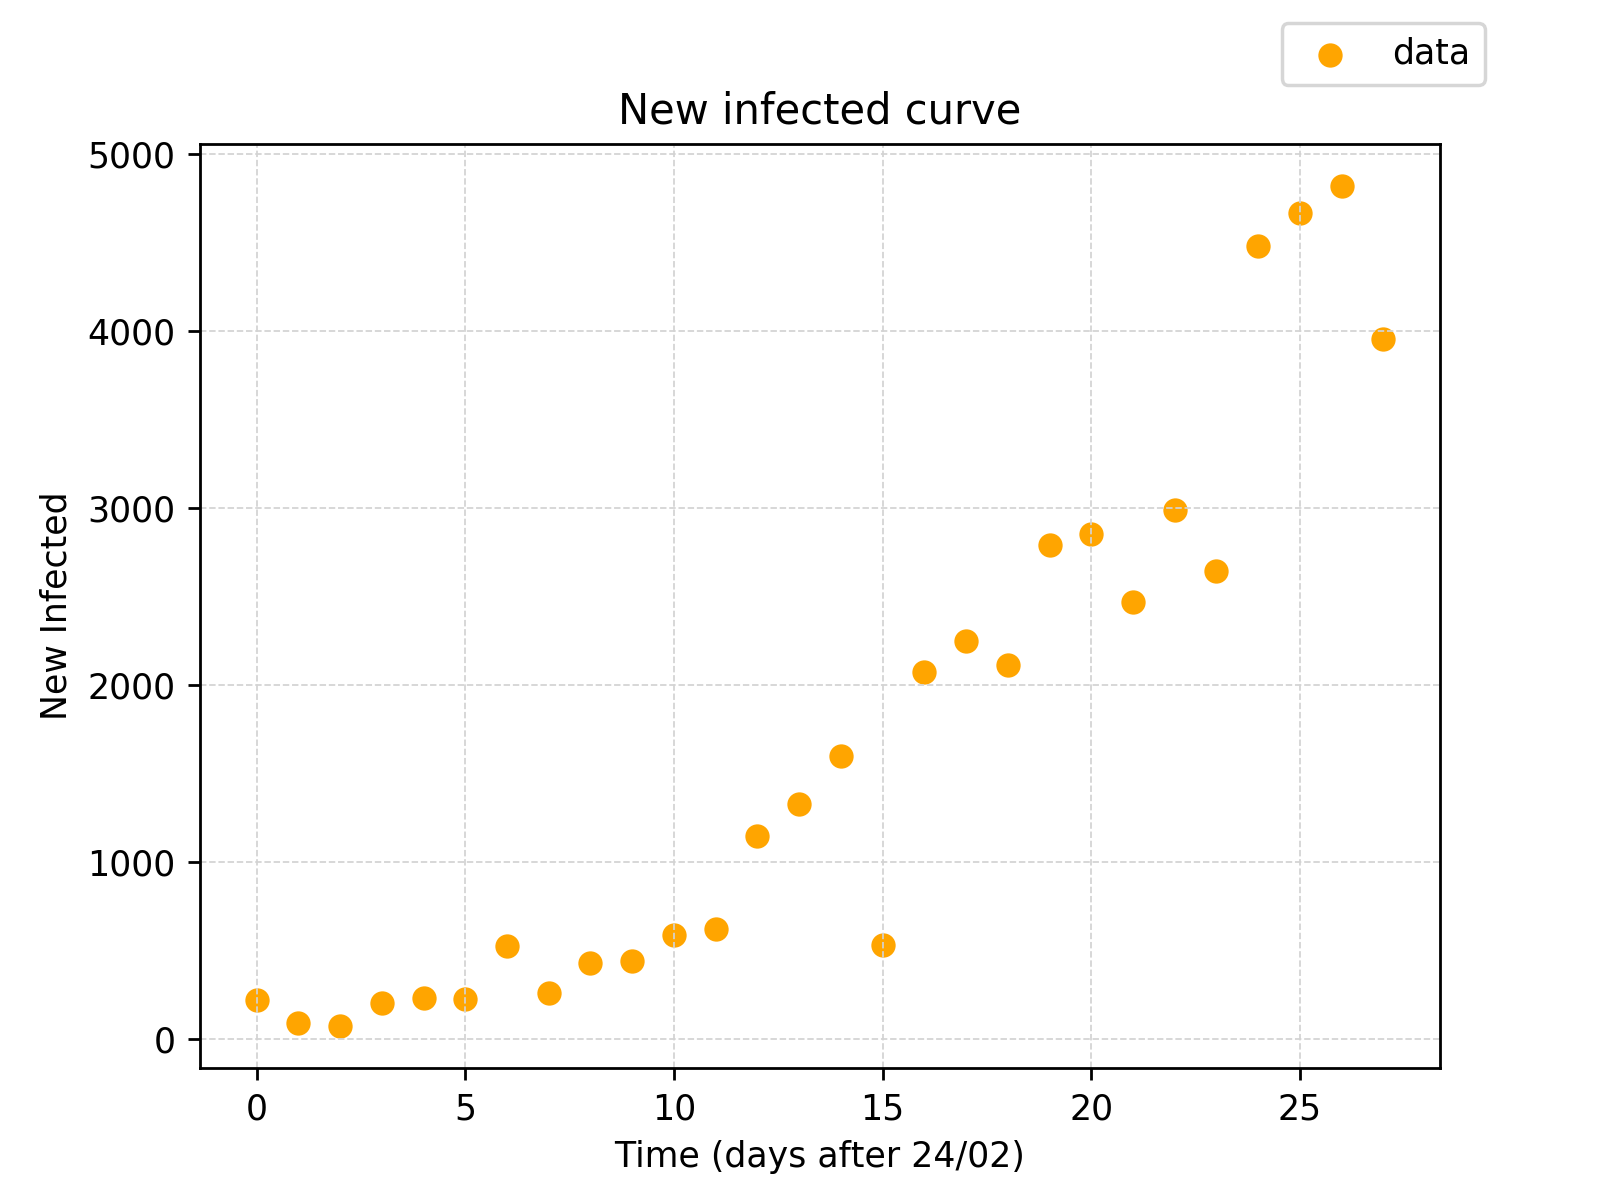
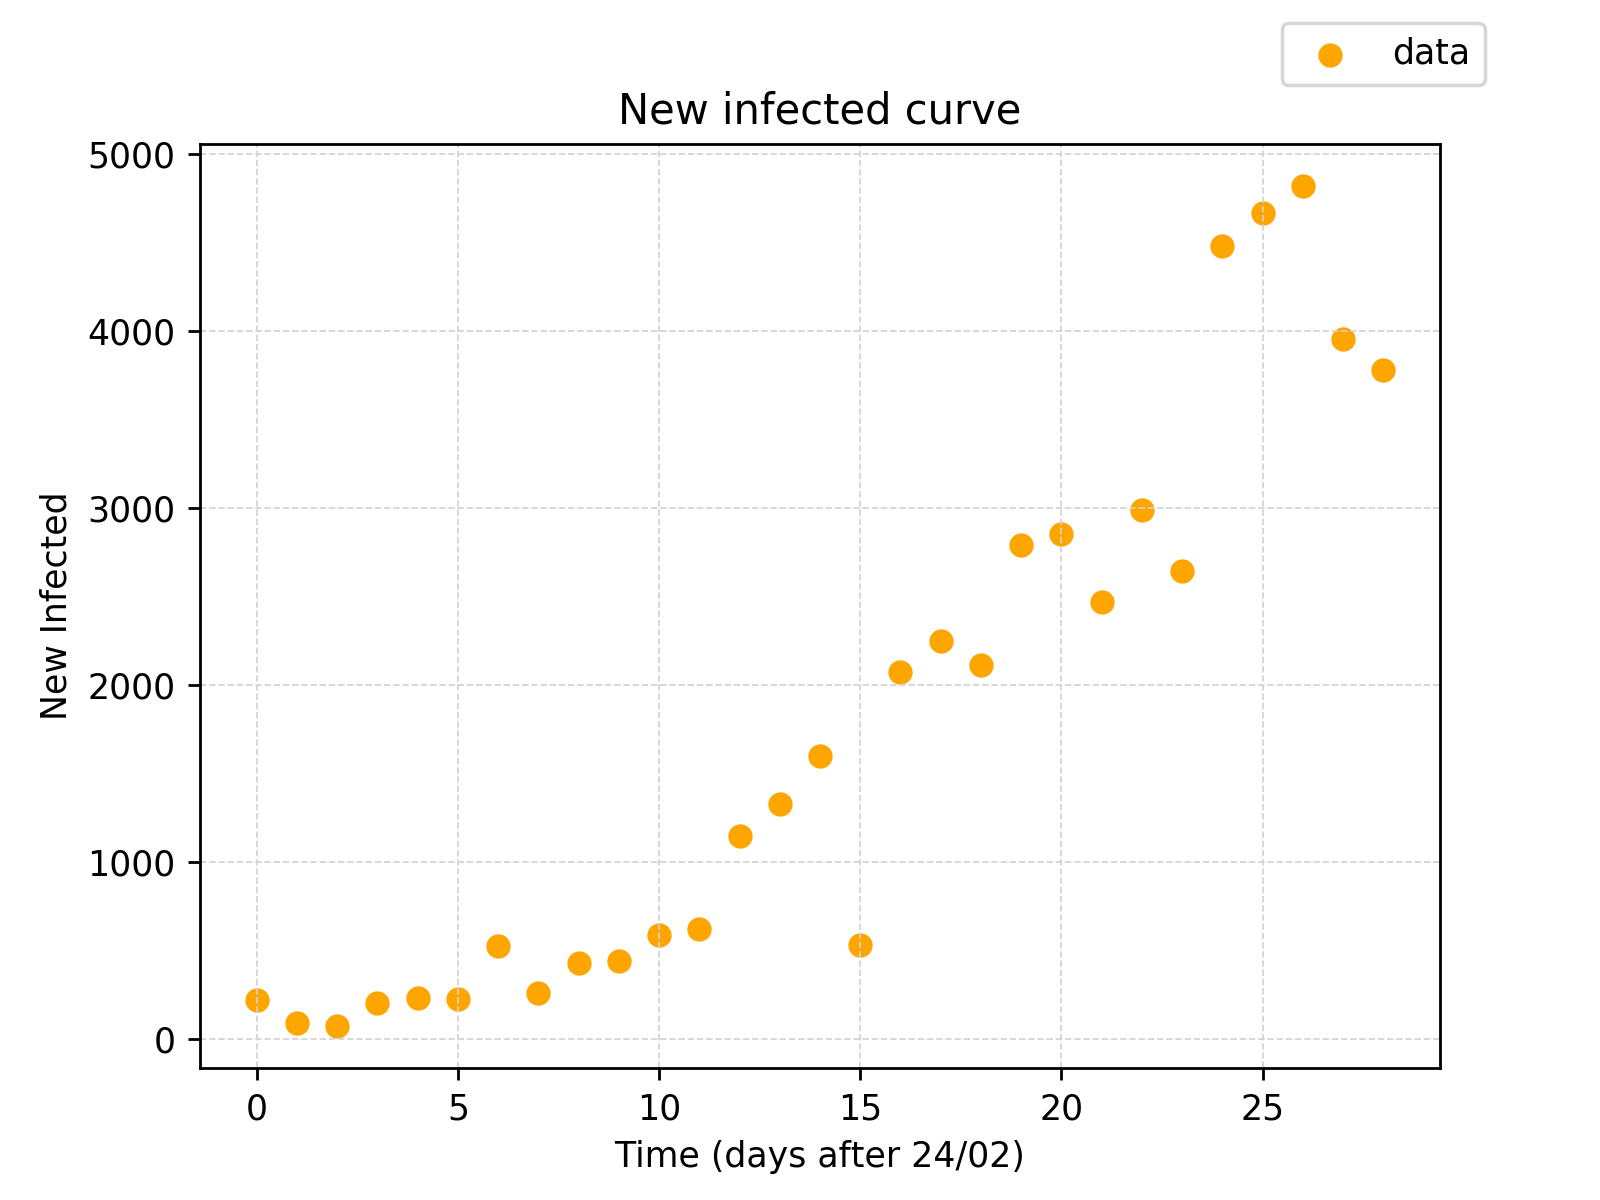
update to 23rd of march

diff --git a/regional.py b/regional.py
@@ -46,7 +46,7 @@ print(dataset.iloc[lambda x: x.index > 524][
 # monitoring hospitals in fvg
 print('\n MONITORING SITUATION IN FVG HOSPITALS')
 
-last_date = '2020-03-22 17:00:00'
+last_date = '2020-03-23 17:00:00'
 last_tot_cases = dataset.loc[dataset['data']==last_date][['denominazione_regione','totale_casi','totale_attualmente_positivi', 'totale_ospedalizzati', 'terapia_intensiva']]
 
 print('\nTotale casi in fvg')

diff --git a/trieste.py b/trieste.py
@@ -41,7 +41,7 @@ dataset.info()
 # monitoring Trieste
 print('\n MONITORING SITUATION IN TRIESTE')
 
-last_date = '2020-03-22 17:00:00'
+last_date = '2020-03-23 17:00:00'
 last_tot_cases = dataset.loc[dataset['data']==last_date][['denominazione_provincia','totale_casi']]
 
 casi_trieste = last_tot_cases.loc[last_tot_cases['denominazione_provincia']=='Trieste']['totale_casi']
